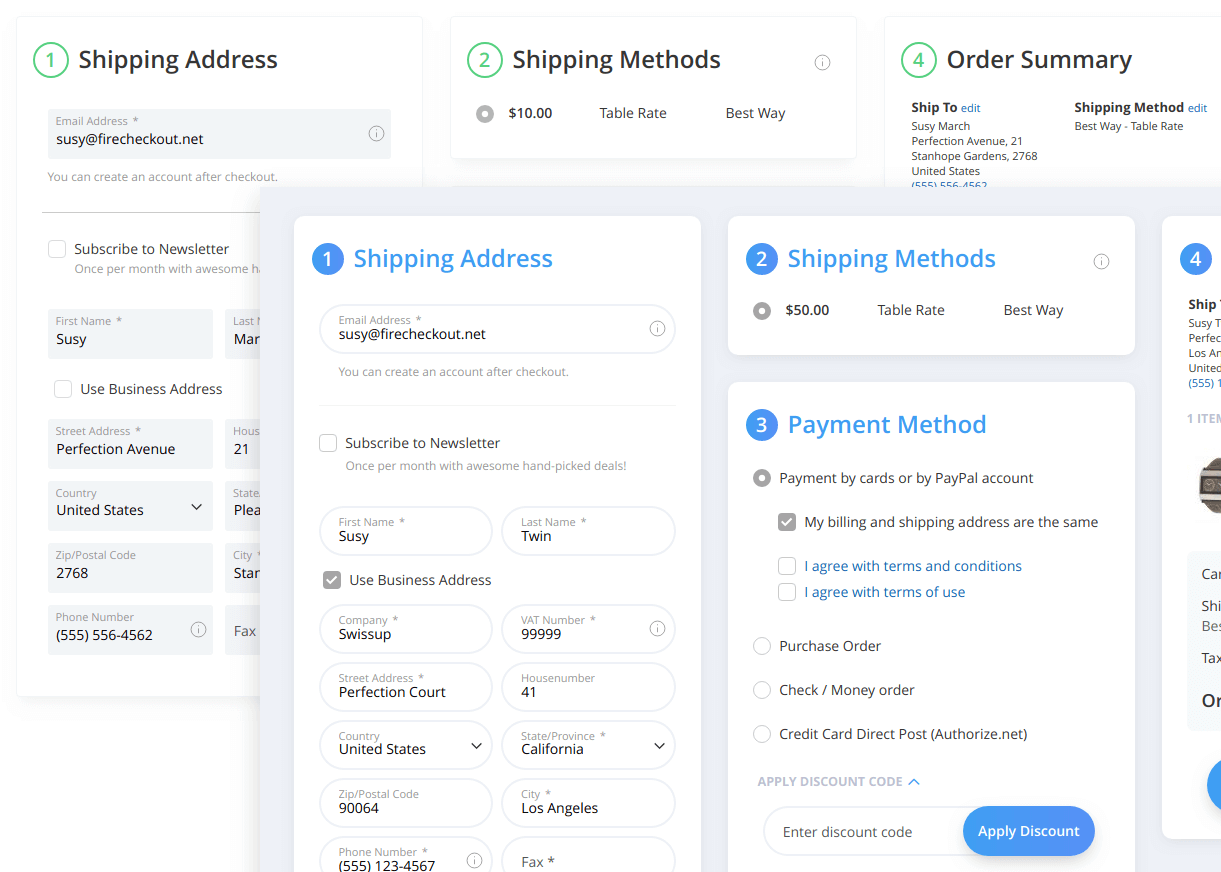
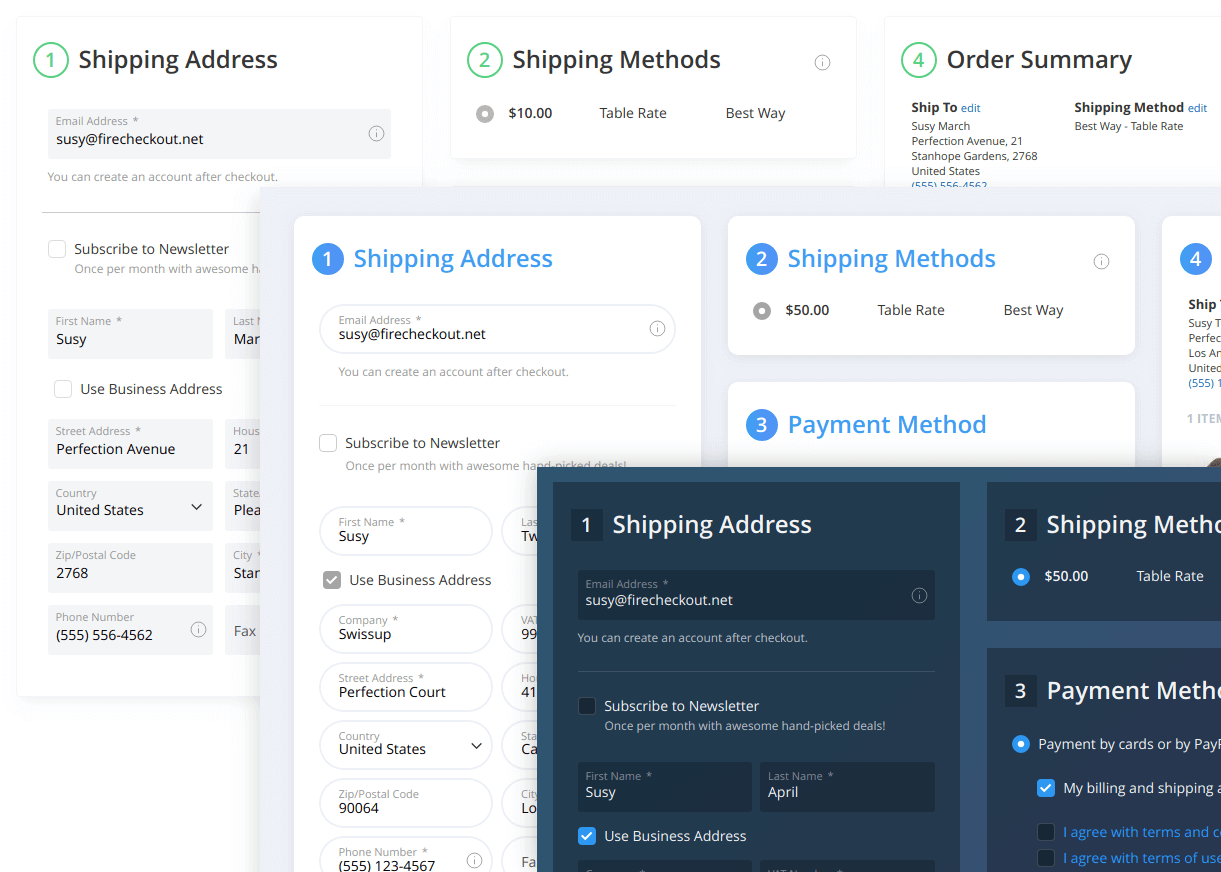
Firecheckout M2: changelog updated

Changed region(s): [[0.4357, 0.5264, 1.0, 1.0]]

diff --git a/m2/extensions/firecheckout/configuration.md b/m2/extensions/firecheckout/configuration.md
@@ -38,7 +38,7 @@ Form Styles | [Select form styles](#form-styles) to use at firecheckout page
 
 #### Page Layout
 
-There are 3 page layouts available to use:
+There are 4 page layouts available to use:
 
  -  [Default Checkout Layout](#&gid=1&pid=1) (Depends on your active theme)
  -  [Empty](#&gid=1&pid=2) (No Header and Footer)
@@ -65,12 +65,12 @@ Layout screenshots:
 
 #### Theme
 
-There are 2 themes available to use:
+There are 4 themes available to use:
 
  -  [Default](#&gid=3&pid=1)
- <!-- -  [Dark](#&gid=3&pid=2) -->
  -  [Light](#&gid=3&pid=2)
- -  [Round](#&gid=3&pid=3)
+ -  [Midnight](#&gid=3&pid=3)
+ -  [Round](#&gid=3&pid=4)
 
 Themes screenshots:
 
@@ -78,7 +78,7 @@ Themes screenshots:
 
 #### Form Styles
 
-There are three form **modes** available:
+There are 3 form **modes** available:
 
  -  [Horizontal](#&gid=4&pid=1) (Label aside of the field)
  -  [Basic](#&gid=4&pid=2) (Same as horizontal, except label above the field)
